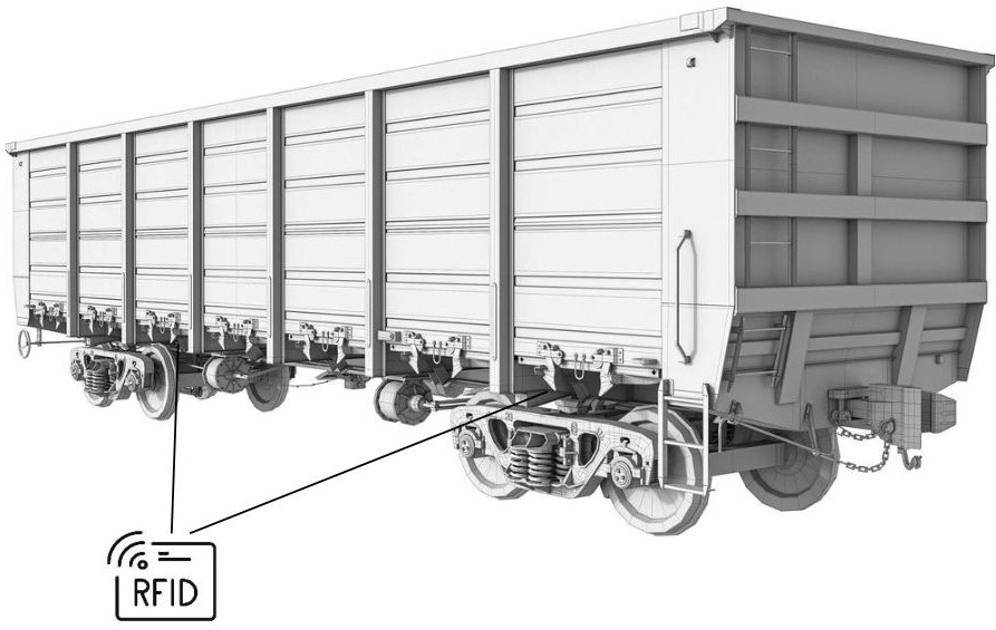
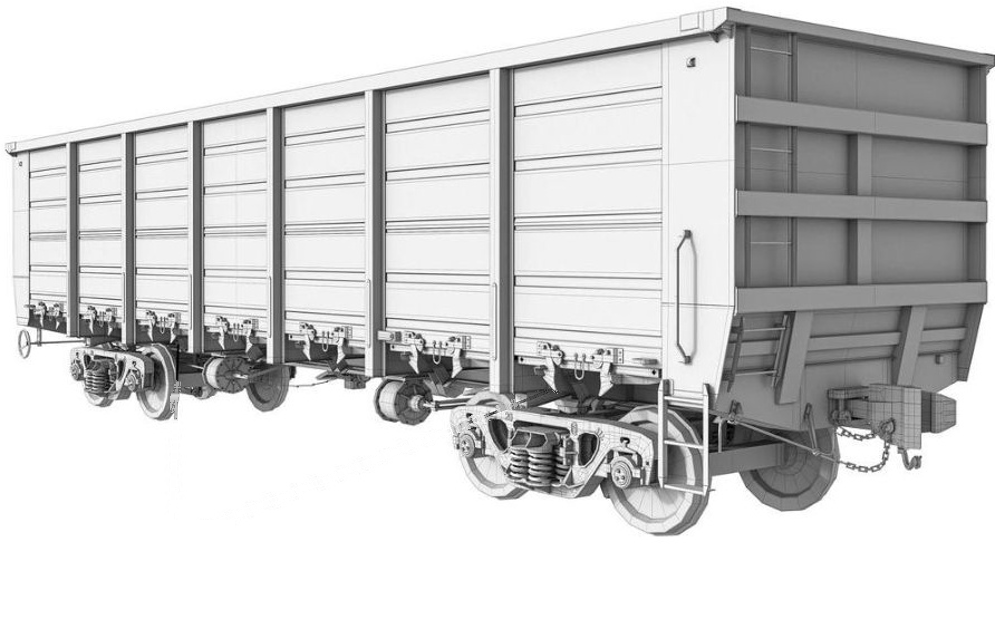
Считыватель вместо курсора над вагоном, убран значок RFID с картинки

diff --git a/index.html b/index.html
@@ -69,6 +69,19 @@
           <button class="tagpt" type="button" style="left:52%;top:70%" data-k="rama" aria-label="Считать метку на боковой раме"></button>
           <button class="tagpt" type="button" style="left:64.5%;top:76%" data-k="koleso" aria-label="Считать метку на колесе"></button>
           <button class="tagpt" type="button" style="left:87.5%;top:63%" data-k="scep" aria-label="Считать метку на автосцепке"></button>
+          <svg class="gun" viewBox="-24 0 154 120" aria-hidden="true">
+            <g class="gun-waves" fill="none" stroke-width="2.5" stroke-linecap="round">
+              <path d="M-5 56 Q-10 71 -7 86"/><path d="M-14 49 Q-22 71 -17 93"/>
+            </g>
+            <g class="gun-body" stroke-width="2.5" stroke-linejoin="round">
+              <path d="M58 50 L89 55 L85 78 Q83 92 87 104 Q88 110 82 111 L66 112 Q61 112 61 106 Q62 88 58 70 Z"/>
+              <path d="M24 29 L118 43 Q124 44 123 50 L122 55 Q121 60 115 59 L22 45 Z"/>
+              <path d="M12 43 L30 46 Q34 47 33 51 L27 96 Q26 100 22 99 L8 96 Q4 95 5 91 L9 46 Q10 42 12 43 Z"/>
+              <path d="M15 56 L24 57.500 L21 85 L12 83.500 Z" class="gun-face"/>
+            </g>
+            <path d="M57 55 Q52 66 55 79 L61 77 Q60 66 63 56 Z" fill="#e8552b"/>
+            <rect x="60" y="37" width="13" height="5" rx="2.5" transform="rotate(8.500 66 39)" fill="#e8552b"/>
+          </svg>
         </div>
         <aside class="reader" aria-live="polite">
           <div class="rd-top"><span>Экран считывателя</span><span class="rd-state">Наведите на метку</span></div>
@@ -81,7 +94,7 @@
             <dt>Статус</dt><dd data-f="st">—</dd>
             <dt>Последняя операция</dt><dd data-f="op">—</dd>
           </dl>
-          <p class="rd-note">Нажмите на любую метку на вагоне. Данные демонстрационные.</p>
+          <p class="rd-note">Наведите считыватель на метку или нажмите на неё. Данные демонстрационные.</p>
         </aside>
       </div>
 

diff --git a/assets/site.js b/assets/site.js
@@ -63,6 +63,7 @@
       var d = TAGS[btn.dataset.k];
       pts.forEach(function (x) { x.classList.toggle('on', x === btn); });
       reader.classList.remove('is-ok'); reader.classList.add('is-busy');
+      var g = document.querySelector('.gun'); if (g) g.classList.add('fire');
       reader.querySelector('.rd-state').textContent = 'Считывание…';
       clearTimeout(timer);
       timer = setTimeout(function () {
@@ -72,9 +73,28 @@
         });
         reader.querySelector('.rd-state').textContent = 'Считано';
         reader.classList.remove('is-busy'); reader.classList.add('is-ok');
+        if (g) setTimeout(function () { g.classList.remove('fire'); }, 500);
       }, 380);
     };
     pts.forEach(function (btn) { btn.addEventListener('click', function () { read(btn); }); });
+
+    // Считыватель вместо курсора: наводим на метку — она считывается.
+    var wagon = document.querySelector('.wagon');
+    var gun = document.querySelector('.gun');
+    if (wagon && gun && window.matchMedia && matchMedia('(hover: hover) and (pointer: fine)').matches) {
+      wagon.addEventListener('pointermove', function (ev) {
+        var r = wagon.getBoundingClientRect();
+        var k = gun.getBoundingClientRect().width / 154; // антенна считывателя — под указателем
+        gun.style.transform = 'translate(' + (ev.clientX - r.left - 6 * k) + 'px,' + (ev.clientY - r.top - 71 * k) + 'px)';
+        wagon.classList.add('aim');
+      });
+      wagon.addEventListener('pointerleave', function () { wagon.classList.remove('aim'); });
+      pts.forEach(function (btn) {
+        btn.addEventListener('pointerenter', function () {
+          if (!btn.classList.contains('on')) read(btn);
+        });
+      });
+    }
     setTimeout(function () { read(pts[3]); }, 600);
   }
 

diff --git a/assets/site.css b/assets/site.css
@@ -220,6 +220,13 @@ footer a:hover{color:var(--amber)}
 .tagpt.on{border-color:var(--green)}
 .tagpt.on::before{background:var(--green)}
 .tagpt.on::after{border-color:var(--green);animation:ping 1.1s ease-out 1}
+.gun{position:absolute;left:0;top:0;width:112px;height:auto;pointer-events:none;opacity:0;transition:opacity .15s;z-index:3;overflow:visible}
+.gun-body{fill:var(--panel);stroke:var(--head)}
+.gun-face{fill:var(--panel-2);stroke-width:1.5}
+.gun-waves{stroke:var(--mark);opacity:.55}
+.gun.fire .gun-waves{stroke:var(--green);opacity:1}
+.wagon.aim,.wagon.aim .tagpt{cursor:none}
+.wagon.aim .gun{opacity:1}
 @keyframes ping{from{opacity:.9;transform:scale(.4)}to{opacity:0;transform:scale(1.5)}}
 
 .reader{border:1px solid var(--line-strong);border-radius:10px;background:var(--panel);padding:16px 18px 14px}
